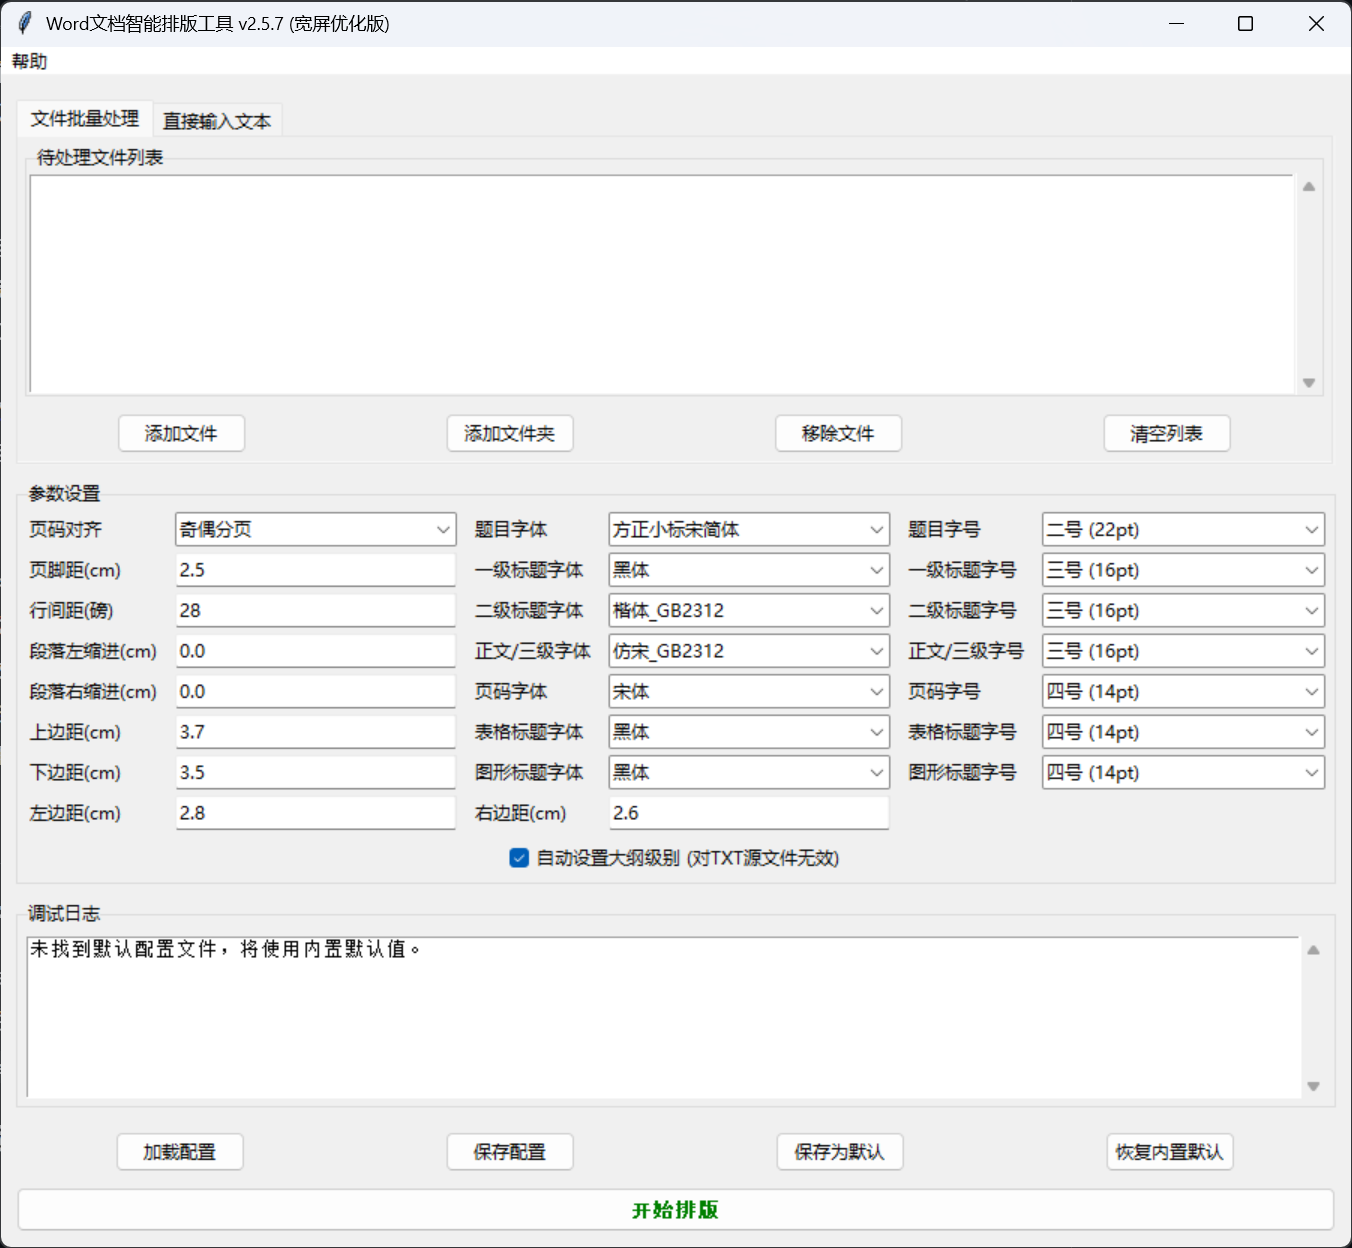
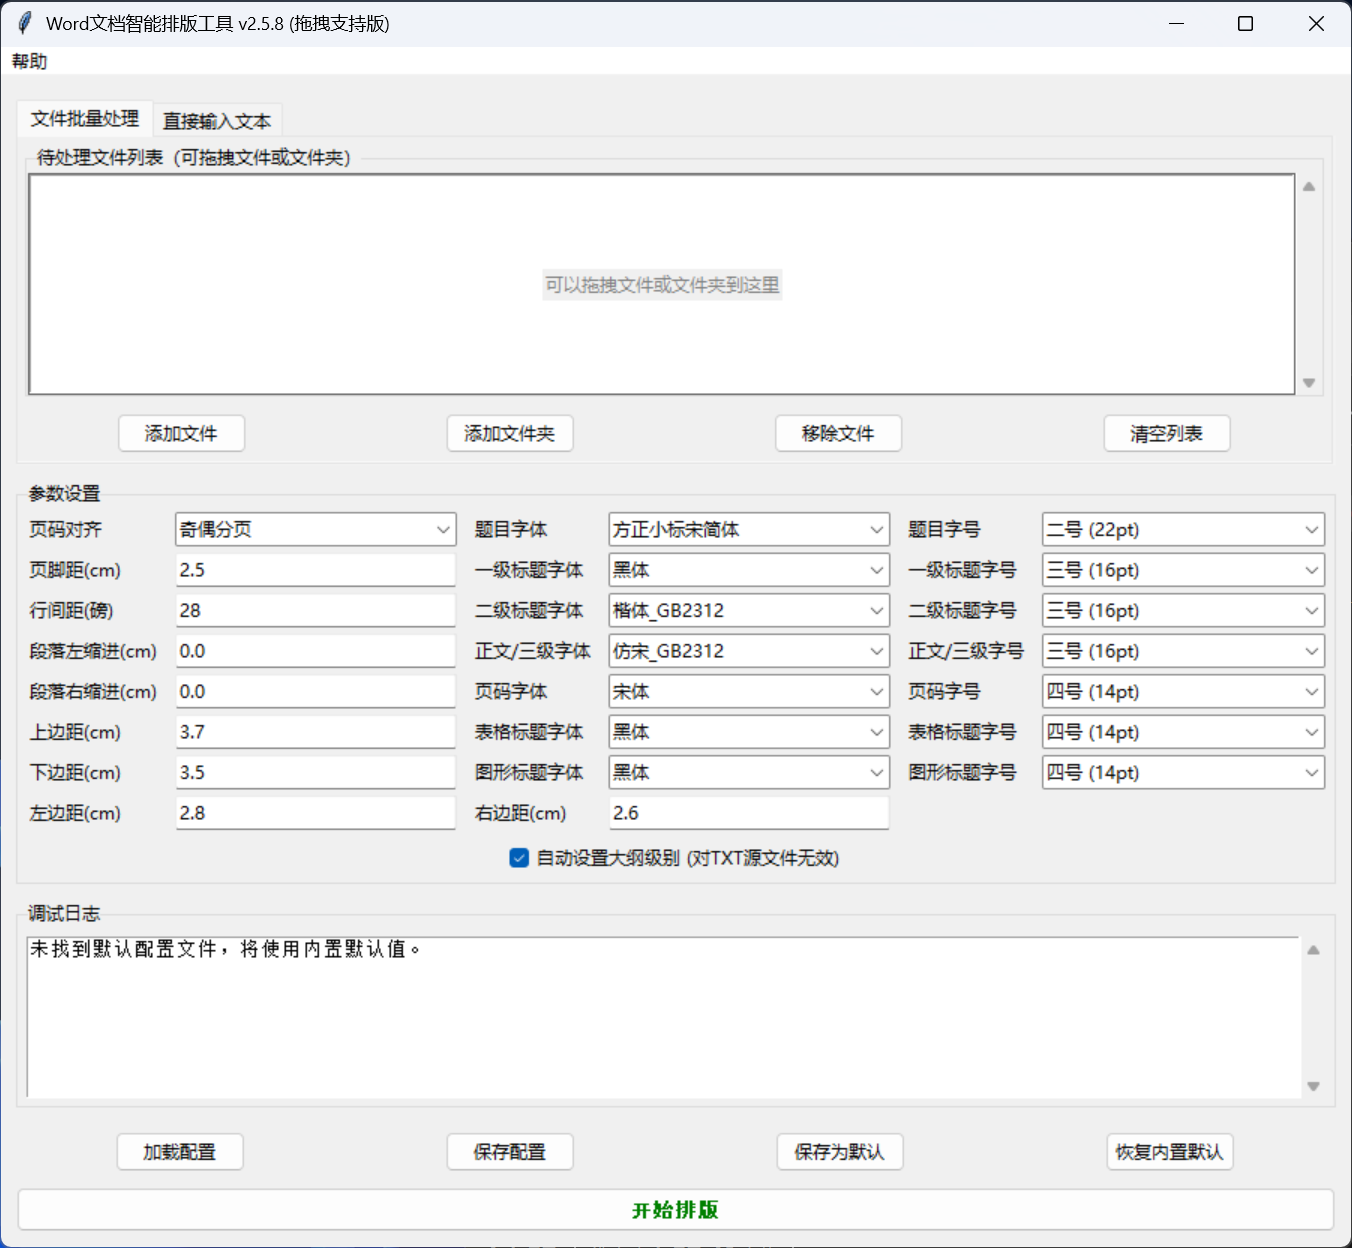
新增拖拽功能、图片/附件段落处理

Changed region(s): [[0.1243, 0.0938, 0.2796, 0.1562], [0.4038, 0.2188, 0.5902, 0.25], [0.2175, 0.0, 0.2796, 0.0312]]

diff --git a/wfp.py b/wfp.py
@@ -19,6 +19,10 @@ from docx.oxml.text.paragraph import CT_P
 from docx.table import Table, _Cell
 from docx.text.paragraph import Paragraph
 
+# --- NEW: Import for Drag-and-Drop functionality ---
+# Make sure to install it first: pip install tkinterdnd2-tk
+from tkinterdnd2 import DND_FILES, TkinterDnD
+
 logging.basicConfig(level=logging.INFO, format='%(asctime)s - %(levelname)s - %(message)s')
 
 class WordProcessor:
@@ -353,13 +357,36 @@ class WordProcessor:
             if not para.text.strip(): 
                 self._log(f"段落 {current_block_num}: 空白 - 跳过"); block_idx += 1; continue
             
+            # --- MODIFICATION START: Handle paragraphs with images/objects ---
             is_pic = '<w:drawing>' in para._p.xml or '<w:pict>' in para._p.xml
             is_embedded_obj = '<w:object>' in para._p.xml
             if is_pic or is_embedded_obj:
                 log_msg = "图片" if is_pic else "附件"
-                self._log(f"段落 {current_block_num}: {log_msg} - 保留原格式")
-                if is_embedded_obj: self._apply_font_to_runs(para, self.config['body_font'], self.config['body_size'], set_color=apply_color)
-                block_idx += 1; continue
+                self._log(f"段落 {current_block_num}: {log_msg} - 仅格式化文字")
+                
+                text_to_check = para.text.lstrip()
+                para_text_preview = text_to_check[:30].replace("\n", " ")
+
+                # Apply font formatting based on heading or body rules, but leave other properties (indent, spacing) alone.
+                if re_h1.match(text_to_check):
+                    self._log(f"  > 文字识别为一级标题: \"{para_text_preview}...\"")
+                    self._apply_font_to_runs(para, self.config['h1_font'], self.config['h1_size'], set_color=apply_color)
+                elif re_h2.match(text_to_check):
+                    self._log(f"  > 文字识别为二级标题: \"{para_text_preview}...\"")
+                    self._apply_font_to_runs(para, self.config['h2_font'], self.config['h2_size'], set_color=apply_color)
+                elif re_h3.match(text_to_check):
+                    self._log(f"  > 文字识别为三级标题: \"{para_text_preview}...\"")
+                    self._apply_font_to_runs(para, self.config['body_font'], self.config['body_size'], set_color=apply_color)
+                elif re_h4.match(text_to_check):
+                    self._log(f"  > 文字识别为四级标题: \"{para_text_preview}...\"")
+                    self._apply_font_to_runs(para, self.config['body_font'], self.config['body_size'], set_color=apply_color)
+                elif text_to_check: # Only format if there is text
+                    self._log(f"  > 文字识别为正文: \"{para_text_preview}...\"")
+                    self._apply_font_to_runs(para, self.config['body_font'], self.config['body_size'], set_color=apply_color)
+
+                block_idx += 1
+                continue
+            # --- MODIFICATION END ---
 
             original_text, text_to_check = para.text, para.text.lstrip()
             leading_space_count = len(original_text) - len(text_to_check)
@@ -500,7 +527,7 @@ class WordProcessor:
 class WordFormatterGUI:
     def __init__(self, master):
         self.master = master
-        master.title("Word文档智能排版工具 v2.5.7 (宽屏优化版)")
+        master.title("Word文档智能排版工具 v2.5.8 (拖拽支持版)")
         # --- MODIFICATION: Adjusted window geometry for widescreen displays ---
         master.geometry("900x780")
 
@@ -551,13 +578,21 @@ class WordFormatterGUI:
         self.notebook = notebook
 
         file_tab = ttk.Frame(notebook); notebook.add(file_tab, text=' 文件批量处理 ')
-        list_frame = ttk.LabelFrame(file_tab, text="待处理文件列表")
+        list_frame = ttk.LabelFrame(file_tab, text="待处理文件列表（可拖拽文件或文件夹）")
         list_frame.pack(fill=tk.BOTH, expand=True, padx=5, pady=5)
         scrollbar = ttk.Scrollbar(list_frame, orient=tk.VERTICAL)
         # --- MODIFICATION: Set a shorter default height for the listbox ---
         self.file_listbox = tk.Listbox(list_frame, yscrollcommand=scrollbar.set, selectmode=tk.EXTENDED, height=8)
         scrollbar.config(command=self.file_listbox.yview); scrollbar.pack(side=tk.RIGHT, fill=tk.Y)
         self.file_listbox.pack(side=tk.LEFT, fill=tk.BOTH, expand=True)
+        
+        # --- NEW (DND): Register the listbox as a drop target ---
+        self.file_listbox.drop_target_register(DND_FILES)
+        self.file_listbox.dnd_bind('<<Drop>>', self.handle_drop)
+
+        # --- NEW (Placeholder): Create a label to show as a placeholder ---
+        self.placeholder_label = ttk.Label(self.file_listbox, text="可以拖拽文件或文件夹到这里", foreground="grey")
+        # The _update_listbox_placeholder function will manage its visibility
         
         # --- MODIFIED: Added "Remove File" button ---
         file_button_frame = ttk.Frame(file_tab); file_button_frame.pack(fill=tk.X, pady=5)
@@ -604,6 +639,9 @@ class WordFormatterGUI:
 
         style = ttk.Style(); style.configure('Success.TButton', font=('Helvetica', 10, 'bold'), foreground='green')
         ttk.Button(main_frame, text="开始排版", style='Success.TButton', command=self.start_processing).pack(fill=tk.X, ipady=5)
+
+        # --- NEW (Placeholder): Set the initial state of the placeholder ---
+        self._update_listbox_placeholder()
 
     def log_to_debug_window(self, message):
         self.master.update_idletasks(); self.debug_text.config(state='normal'); self.debug_text.insert(tk.END, message + '\n'); self.debug_text.config(state='disabled'); self.debug_text.see(tk.END)
@@ -694,35 +732,59 @@ class WordFormatterGUI:
                 messagebox.showinfo("成功", "配置已加载")
             except Exception as e:
                 messagebox.showerror("错误", f"加载配置文件失败: {e}")
-            
-    def add_files(self):
-        # --- MODIFIED: Prevent duplicate files ---
+
+    # --- NEW (Placeholder): Manages the visibility of the placeholder label ---
+    def _update_listbox_placeholder(self):
+        if self.file_listbox.size() == 0:
+            self.placeholder_label.place(in_=self.file_listbox, relx=0.5, rely=0.5, anchor=tk.CENTER)
+        else:
+            self.placeholder_label.place_forget()
+
+    # --- NEW (DND): Handles the drop event ---
+    def handle_drop(self, event):
+        # The event.data is a string containing file paths, possibly with braces {}
+        # We use tk's splitlist to properly parse it into a list of paths
+        paths = self.master.tk.splitlist(event.data)
+        self._add_paths_to_listbox(paths)
+
+    # --- NEW (Refactored): Central logic for adding paths from any source ---
+    def _add_paths_to_listbox(self, paths):
         current_files = set(self.file_listbox.get(0, tk.END))
-        files = filedialog.askopenfilenames(filetypes=[("所有支持的文件", "*.docx;*.doc;*.wps;*.txt"), ("Word 文档", "*.docx;*.doc"), ("WPS 文档", "*.wps"), ("纯文本", "*.txt")])
         added_count = 0
-        for f in files:
-            if f not in current_files:
-                self.file_listbox.insert(tk.END, f)
-                current_files.add(f)
-                added_count += 1
-        if len(files) > 0:
-            self.log_to_debug_window(f"添加了 {added_count} 个新文件。忽略了 {len(files) - added_count} 个重复文件。")
+        
+        for path in paths:
+            if os.path.isdir(path):
+                # It's a folder, walk through it
+                for root, _, files in os.walk(path):
+                    for f in files:
+                        if f.lower().endswith(('.docx', '.doc', '.wps', '.txt')):
+                            full_path = os.path.join(root, f)
+                            if full_path not in current_files:
+                                self.file_listbox.insert(tk.END, full_path)
+                                current_files.add(full_path)
+                                added_count += 1
+            elif os.path.isfile(path):
+                # It's a file
+                if path.lower().endswith(('.docx', '.doc', '.wps', '.txt')):
+                    if path not in current_files:
+                        self.file_listbox.insert(tk.END, path)
+                        current_files.add(path)
+                        added_count += 1
+        
+        if added_count > 0:
+            self.log_to_debug_window(f"通过按钮或拖拽添加了 {added_count} 个新文件。")
+        
+        self._update_listbox_placeholder()
+
+    def add_files(self):
+        files = filedialog.askopenfilenames(filetypes=[("所有支持的文件", "*.docx;*.doc;*.wps;*.txt"), ("Word 文档", "*.docx;*.doc"), ("WPS 文档", "*.wps"), ("纯文本", "*.txt")])
+        if files:
+            self._add_paths_to_listbox(files)
         
     def add_folder(self):
         folder = filedialog.askdirectory()
         if folder:
-            # --- MODIFIED: Prevent duplicate files ---
-            current_files = set(self.file_listbox.get(0, tk.END))
-            initial_count = len(current_files)
-            for root, _, files in os.walk(folder):
-                for f in files:
-                    if f.lower().endswith(('.docx', '.doc', '.wps', '.txt')):
-                        full_path = os.path.join(root, f)
-                        if full_path not in current_files:
-                            self.file_listbox.insert(tk.END, full_path)
-                            current_files.add(full_path)
-            added_count = len(current_files) - initial_count
-            self.log_to_debug_window(f"从文件夹添加了 {added_count} 个新文件。")
+            self._add_paths_to_listbox([folder]) # Pass the single folder path in a list
 
     # --- NEW: Method to remove selected files from the listbox ---
     def remove_files(self):
@@ -733,15 +795,18 @@ class WordFormatterGUI:
         # Iterate over indices in reverse order to avoid shifting list items
         for index in sorted(selected_indices, reverse=True):
             self.file_listbox.delete(index)
+        self._update_listbox_placeholder() # Update placeholder after removing
 
-    def clear_list(self): self.file_listbox.delete(0, tk.END)
+    def clear_list(self): 
+        self.file_listbox.delete(0, tk.END)
+        self._update_listbox_placeholder() # Update placeholder after clearing
 
     def show_help_window(self):
         help_win = tk.Toplevel(self.master); help_win.title("使用说明"); help_win.geometry("600x500")
         help_text_widget = scrolledtext.ScrolledText(help_win, wrap=tk.WORD, state='disabled')
         help_text_widget.pack(fill=tk.BOTH, expand=True, padx=10, pady=10)
         help_content = """
-Word文档智能排版工具 v2.5.7 - 使用说明
+Word文档智能排版工具 v2.5.8 - 使用说明
 
 本工具旨在提供一键式的专业文档排版体验，支持批量处理和高度自定义。
 
@@ -749,6 +814,7 @@ Word文档智能排版工具 v2.5.7 - 使用说明
 软件提供两种输入模式，通过主界面的选项卡切换：
 1. 文件批量处理：
    - 添加文件/文件夹：批量添加待处理的文档。
+   - 【新】拖拽支持：可以直接从文件管理器将文件或文件夹拖拽到文件列表中。
    - 支持格式：.docx, .doc, .wps, .txt。其中 .doc, .wps, .txt 会在后台自动转换为 .docx 进行处理（需安装WPS或Office）。
 2. 直接输入文本：
    - 直接在文本框中撰写或粘贴内容，程序会将其作为 .txt 内容处理。
@@ -860,6 +926,7 @@ Word文档智能排版工具 v2.5.7 - 使用说明
             processor.quit_com_app()
 
 if __name__ == "__main__":
-    root = tk.Tk()
+    # --- MODIFIED: Use TkinterDnD.Tk() instead of tk.Tk() to enable drag-and-drop ---
+    root = TkinterDnD.Tk()
     app = WordFormatterGUI(root)
     root.mainloop()

diff --git a/README.md b/README.md
@@ -8,7 +8,7 @@
 
 ## 主要功能
 
-*   **基于标准**：软件的默认参数遵循公文规范标准设置。
+*   **基于公文标准**：软件的默认参数遵循公文规范标准设置。
 *   **一键式操作**：导入文件或文本，点击按钮即可完成排版。
 
 ### 智能识别与处理
@@ -26,6 +26,16 @@
 *   **输入灵活**：支持文件处理和直接在软件内粘贴文本进行排版。
 *   **安全无损**：所有操作均在副本上进行，原始文件不会被修改。
 *   **参数自定义**：所有核心参数（页边距、字体、字号、行距等）均可在界面调整。配置方案可保存和加载。
+
+## 效果演示
+
+### Word 文件处理前后
+
+![Word处理前后](https://raw.githubusercontent.com/cwyalpha/Word-Formatter-Pro/main/demo_word_before_after.png)
+
+### TXT 文件处理前后
+
+![TXT处理前后](https://raw.githubusercontent.com/cwyalpha/Word-Formatter-Pro/main/demo_txt_before_after.png)
 
 ## 如何使用
 
@@ -71,6 +81,21 @@
 4.  **开始排版**：点击“开始排版”按钮。
 5.  **选择输出位置**：根据提示选择处理后文件的保存位置。
 6.  **完成**：处理完毕后会弹出成功提示。
+
+## 版本更新记录
+
+### v2.5.8 (最新版本)
+
+*   **新增 拖拽功能**：支持从文件管理器将单个或多个文件、文件夹直接拖拽到文件列表框中，简化了文件添加流程。
+*   **优化 图片/附件段落处理**：重构了对包含图片、图形或附件的段落的处理逻辑。现在，程序会为这些段落中的文字应用正确的标题或正文格式（字体、字号），同时保留段落原有的对齐和缩进等布局，确保图文格式的统一性。
+*   **优化 列表框体验**：当文件列表为空时，会显示“可以拖拽...”的文字提示。
+
+### v2.5.7
+
+*   **新增 二级标题段内智能拆分**：当二级标题与正文在同一个段落时，能够自动为标题和正文部分应用不同格式，而无需手动拆分段落。
+*   **新增 配置方案管理**：增加了“保存为默认配置”功能，用户可以将当前设置保存，软件下次启动时将自动加载。
+*   **优化 UI界面**：调整了窗口布局和组件尺寸，更适应宽屏显示器，并增加了“移除文件”按钮和处理前的重要安全提示。
+
 
 ## 许可证 (License)
 
